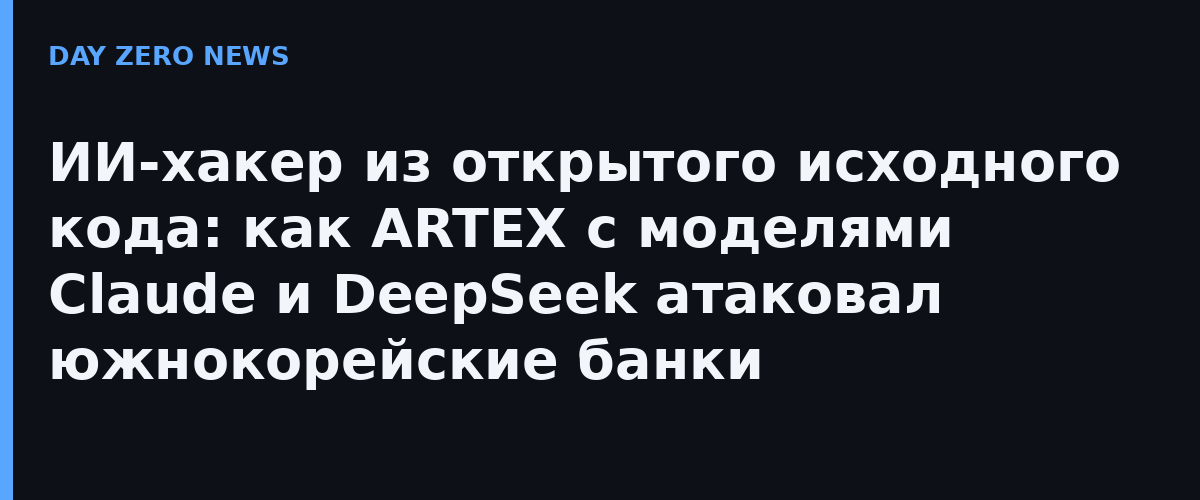
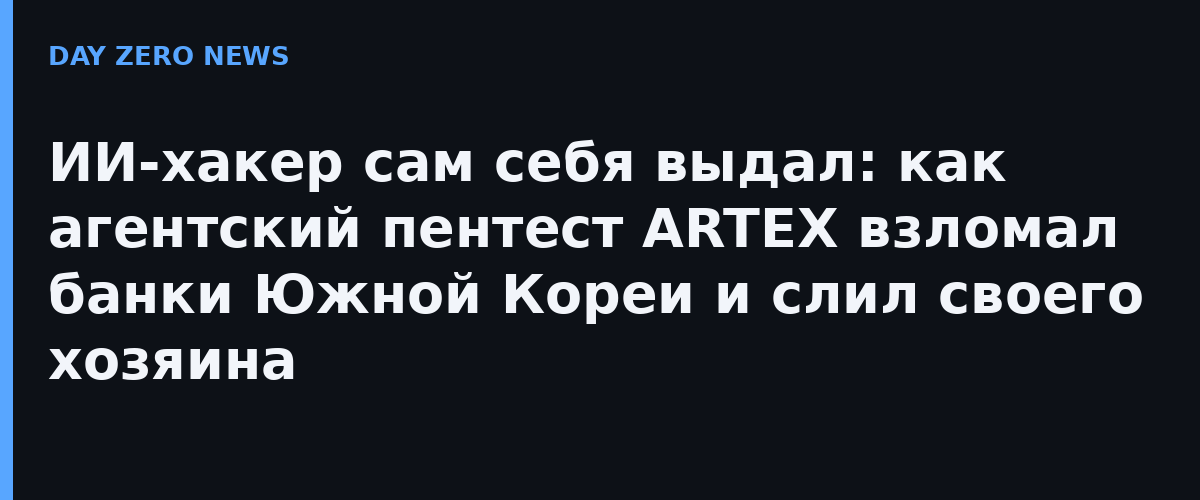
artex: enrich with president/banks/DeepSeek stack

Changed region(s): [[0.0308, 0.27, 0.9558, 0.51], [0.0308, 0.54, 0.9558, 0.66], [0.0308, 0.66, 0.6475, 0.78]]

diff --git a/artex-ai-pentest-korea.html b/artex-ai-pentest-korea.html
@@ -1,8 +1,8 @@
 <!DOCTYPE html><html lang="ru"><head><meta charset="utf-8">
 <meta name="viewport" content="width=device-width, initial-scale=1">
-<title>ИИ-хакер из открытого исходного кода: как ARTEX с моделями Claude и DeepSeek атаковал южнокорейские банки</title>
-<meta name="description" content="CrowdStrike опубликовал разбор первой задокументированной атаки, где агентский ИИ-пентест-фреймворк ARTEX использовался против финансовых организаций Южной Кореи. Показательно: следы attacker вёл... и слил сам себе через открытые директории.">
-<meta property="og:title" content="ИИ-хакер из открытого исходного кода: как ARTEX с моделями Claude и DeepSeek атаковал южнокорейские банки">
+<title>ИИ-хакер сам себя выдал: как агентский пентест ARTEX взломал банки Южной Кореи и слил своего хозяина</title>
+<meta name="description" content="CrowdStrike связывает атаки на Shinhan, KB Kookmin и Hana Bank с атакующим, который работал через китайский агентский пентест-фреймворк ARTEX. На своём сервере он оставил открытый просмотр каталогов — с историями сессий Claude Code, CLAUDE.md, конфигом ARTEX и файлами памяти. Исследователи восстановили весь ход атаки и практически самого атакующего.">
+<meta property="og:title" content="ИИ-хакер сам себя выдал: как агентский пентест ARTEX взломал банки Южной Кореи и слил своего хозяина">
 <meta property="og:image" content="https://alexeivkontakte.github.io/eva-articles/artex-ai-pentest-korea.png">
 <style>
 body{font-family:-apple-system,'Segoe UI',Roboto,sans-serif;max-width:740px;margin:0 auto;padding:26px 18px;color:#d9dde6;line-height:1.7;background:#0d1117}
@@ -15,20 +15,21 @@ a{color:#58a6ff} .brand{font-weight:800;letter-spacing:.5px;color:#58a6ff;font-s
 p{margin:13px 0} li{margin:6px 0} strong{color:#f2f5fa}
 </style></head><body>
 <div class="brand">DAY ZERO NEWS</div>
-<h1>ИИ-хакер из открытого исходного кода: как ARTEX с моделями Claude и DeepSeek атаковал южнокорейские банки</h1>
+<h1>ИИ-хакер сам себя выдал: как агентский пентест ARTEX взломал банки Южной Кореи и слил своего хозяина</h1>
 <div class="meta">09.10.2026 · по материалам первоисточника</div>
 <img class="cover" src="img/artex-ai-pentest-korea.png" alt="">
-<div class="lead">CrowdStrike опубликовал разбор первой задокументированной атаки, где агентский ИИ-пентест-фреймворк ARTEX использовался против финансовых организаций Южной Кореи. Показательно: следы attacker вёл... и слил сам себе через открытые директории.</div>
-<h3>Что произошло</h3>
-<p>Команда CrowdStrike Counter Adversary Operations описала неизвестного атакующего (китаеязычная группа, suspected China-based), который атаковал несколько южных финансовых организаций Южной Кореи. Аномалия не в самом вторжении — в инструментарии: <b>ARTEX</b>, недавно выпущенный китайский open-source пентест-фреймворк на LLM-агентах, плюс модели Anthropic Claude Code, DeepSeek и GLM.</p>
-<h3>Как это работало</h3>
-<p>ARTEX — это не «сканер с ИИ». Go-бэкенд + веб-панель, граф целей (exploration graph), планировщик, пул воркеров-агентов, запись трафика, approval-шлюз для опасных шагов, синхронизация активов из ScopeSentry. Агенты ведут переписку, планят разведку, дергают nmap/sqlmap/браузер.</p>
-<p>Из любопытного — следы атакующего: на открытых директориях, которыми владел сам атакующий, нашли <b>истории сессий Claude Code, конфиги ARTEX и memory-файлы Claude</b>. В них — «резюме исследователя безопасности», сшитое из реальных данных оператора: телефон, телеграм YY520CN, возраст, университет. То есть классическая дыра агентских систем: весь рабочий след агента — это компромат, если его не стереть и не закрыть папку.</p>
-<h3>Причём тут ИИ-повестка</h3>
-<p>Это первый публичный кейс, где агентский пентест-тул из гитхаба зафиксирован в реальной атаке на финсектор. Порог входа падает: ARTEX ставится скриптом за минуту, LLM подключается любой (OpenAI-совместимый endpoint — хоть локальная модель), остальное агенты делают сами. Бенчмарки того же сезона: на WebGoat Claude Opus нашёл 15+ уязвимостей, модели классом ниже — 6–8.</p>
+<div class="lead">CrowdStrike связывает атаки на Shinhan, KB Kookmin и Hana Bank с атакующим, который работал через китайский агентский пентест-фреймворк ARTEX. На своём сервере он оставил открытый просмотр каталогов — с историями сессий Claude Code, CLAUDE.md, конфигом ARTEX и файлами памяти. Исследователи восстановили весь ход атаки и практически самого атакующего.</div>
+<h3>Банки, утечки и президент</h3>
+<p>Речь об атаках на крупнейшие банки Южной Кореи: Shinhan Bank отчитался об утечке персональной кредитной информации примерно 25 000 человек, отдельные инциденты затронули KB Kookmin и Hana Bank (Chosun Ilbo писал о пяти крупнейших банках). Президент Южной Кореи Ли Чжэ Мён лично потребовал найти виновных — это уже уровень государственной кампании, а не череды инцидентов.</p>
+<h3>ИИ-стек атакующего</h3>
+<p>По данным CrowdStrike Counter Adversary Operations, ядром автоматизации был <b>ARTEX</b> — китайский open-source фреймворк агентского пентеста на LLM: граф целей, планировщик, параллельные воркеры-агенты, запись трафика, approval-шлюз для опасных шагов. Основной моделью, по описанию отчёта, была <b>DeepSeek V4.1-Flash</b>, а <b>GLM-5.3, Grok 4.6 и Claude Code</b> помогали в разведке и эксплуатации. Ставится ARTEX скриптом за минуту, модель подключается любая OpenAI-совместимая — порог входа для «армии дилетантов» упал почти до нуля.</p>
+<h3>Как он себя выдал</h3>
+<p>Атакующий оставил на своём сервере <b>открытый просмотр каталогов</b>. Исследователи CrowdStrike нашли там CLAUDE.md, полные истории сессий Claude Code, конфигурацию ARTEX и memory-файлы Claude — и по ним фактически восстановили хронологию взломов, включая сессии разведки уязвимостей NFT-маркетплейса на базе Telegram. В переписке он спрашивал модель, <b>где продать украденные в Корее данные и какие Telegram-группы их купят</b>, а потом просил составить «резюме исследователя кибербезопасности» — и вставил в промпт имя, возраст, телефон, Telegram-аккаунт, вуз и место жительства. Отсюда версия Reuters: подозреваемому около 26 лет, выпускник Южно-Китайского технологического университета из Маомина (провинция Гуандун). Любопытная деталь из тех же промптов: возраст он указал 26, а дату рождения — 2007 года; даже самодеанон сделан с конфликтом данных. Сам CrowdStrike честно оговаривается: связать эти персоналии с реальным человеком окончательно нельзя — часть может быть легендой.</p>
+<h3>Вывод для всех, кто строит ИИ-агентов</h3>
+<p>Это зеркало нашей же архитектуры: у агента есть память, сессии, конфиги — и весь этот рабочий след становится разведданными против его хозяина, если он лежит в открытой директории или синхронизируется куда-то, где его видно. Правила гигиены из этого кейса простые: память и логи агента не должны попадать в шары и публичные директории; секреты и личные данные — никогда в промпты; исходящий трафик агента — под контролем (у нас — nft-изоляция и белый список egress). И да: агент, который спрашивает «где продать украденное», — это уже не инструмент, а соучастник.</p>
 <h3>Ограничение честности</h3>
-<p>CrowdStrike прямо оговаривается: персональные детали из промптов <b>нельзя</b> окончательно связать с конкретным живым человеком — они могут быть частью легенды. Имя подозреваемого — только гипотеза.</p>
-<div class="src">🔗 <b>Оригинал</b> (СМИ, откуда собран материал): <a href="https://www.crowdstrike.com/en-us/blog/unknown-threat-actor-uses-artex-to-target-south-korean-finance/" rel="noopener">CrowdStrike Counter Adversary Operations</a><br>
-🏛 <b>Первоисточник</b> (официальный анонс разработчика): <a href="https://www.crowdstrike.com/en-us/blog/unknown-threat-actor-uses-artex-to-target-south-korean-finance/" rel="noopener">CrowdStrike (отчёт)</a>
-<br>📰 Подхватили официальные СМИ: <a href="https://www.reuters.com/world/suspect-behind-south-korea-bank-hacks-may-be-26-year-old-china-cybersecurity-2026-10-08/" rel="noopener">СМИ 1</a> · <a href="https://www.nytimes.com/2026-10-08/world/australia/south-korea-bank-hack-china-us-ai.html" rel="noopener">СМИ 2</a> · <a href="https://thehackernews.com/2026/10/artex-ai-pentesting-tool-used-in-data.html" rel="noopener">СМИ 3</a><br>Наш канал: <a href="https://t.me/Zero_day_newss">t.me/Zero_day_newss</a></div>
+<p>Персональные данные атакующего (ник YY, telegram-аккаунт, телефон, вуз) опубликованы в отчёте CrowdStrike как индикаторы; в этой статье мы сознательно не печатаем телефон и точные реквизиты — нам важна механика деанона, а не охота за человеком.</p>
+<div class="src">🔗 <b>Оригинал</b> (СМИ, откуда собран материал): <a href="https://www.nytimes.com/2026/10/06/world/asia/south-korea-banks-hacked-ai.html" rel="noopener">The New York Times</a><br>
+🏛 <b>Первоисточник</b> (официальный анонс разработчика): <a href="https://www.crowdstrike.com/en-us/blog/unknown-threat-actor-uses-artex-to-target-south-korean-finance/" rel="noopener">CrowdStrike Counter Adversary Operations</a>
+<br>📰 Подхватили официальные СМИ: <a href="https://www.reuters.com/world/suspect-behind-south-korea-bank-hacks-may-be-26-year-old-china-cybersecurity-2026-10-08/" rel="noopener">СМИ 1</a> · <a href="https://www.chosun.com/english/market-money-en/2026/10/02/JVEBGKXTPRGQTLCP3EIDBKPPCM/" rel="noopener">СМИ 2</a> · <a href="https://www.tomshardware.com/tech-industry/cyber-security/hackers-suspected-of-using-ai-agents-for-cyberattacks-on-south-korean-banks-exposing-data-from-about-25-000-customers-officials-believe-ai-models-enable-actors-to-hack-with-ease-even-without-specialized-skills" rel="noopener">СМИ 3</a><br>Наш канал: <a href="https://t.me/Zero_day_newss">t.me/Zero_day_newss</a></div>
 </body></html>
